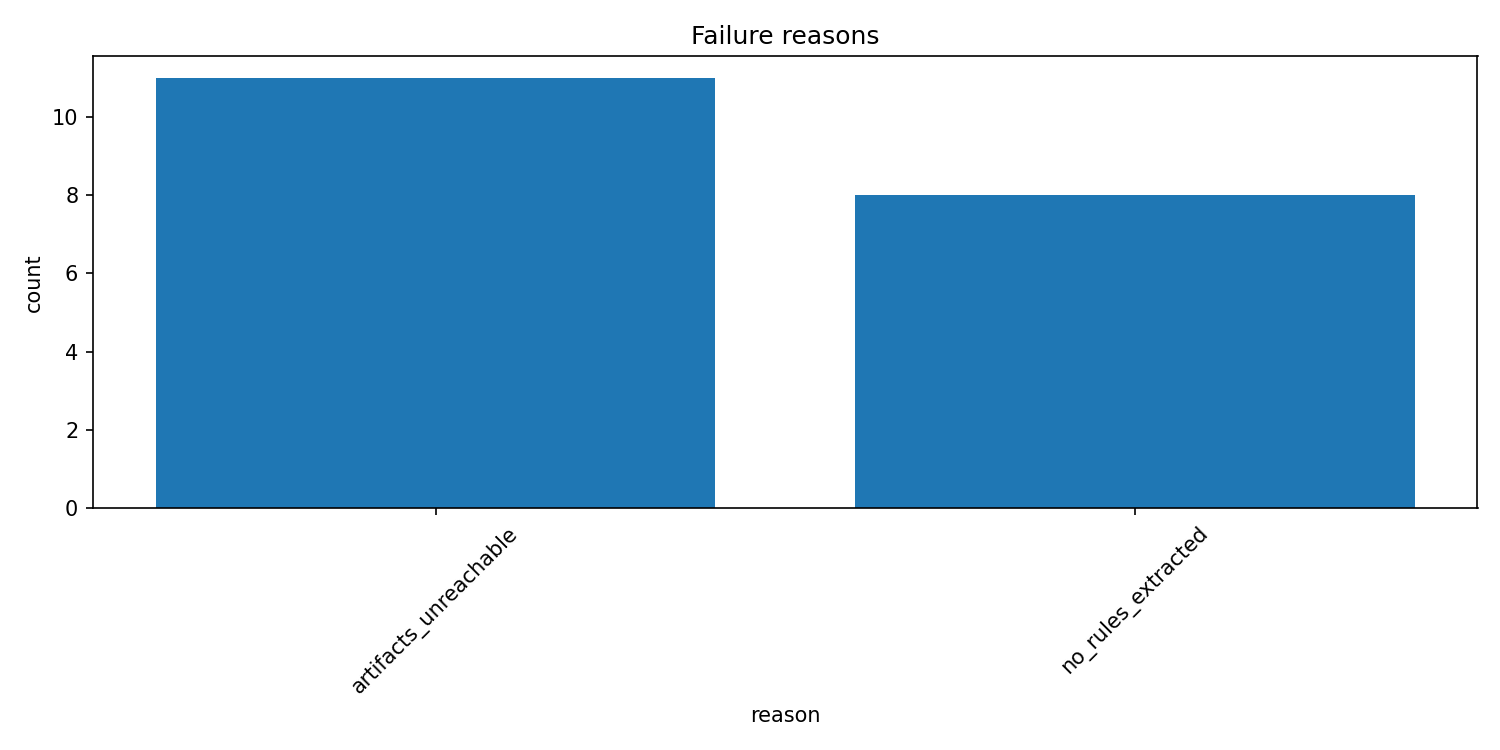
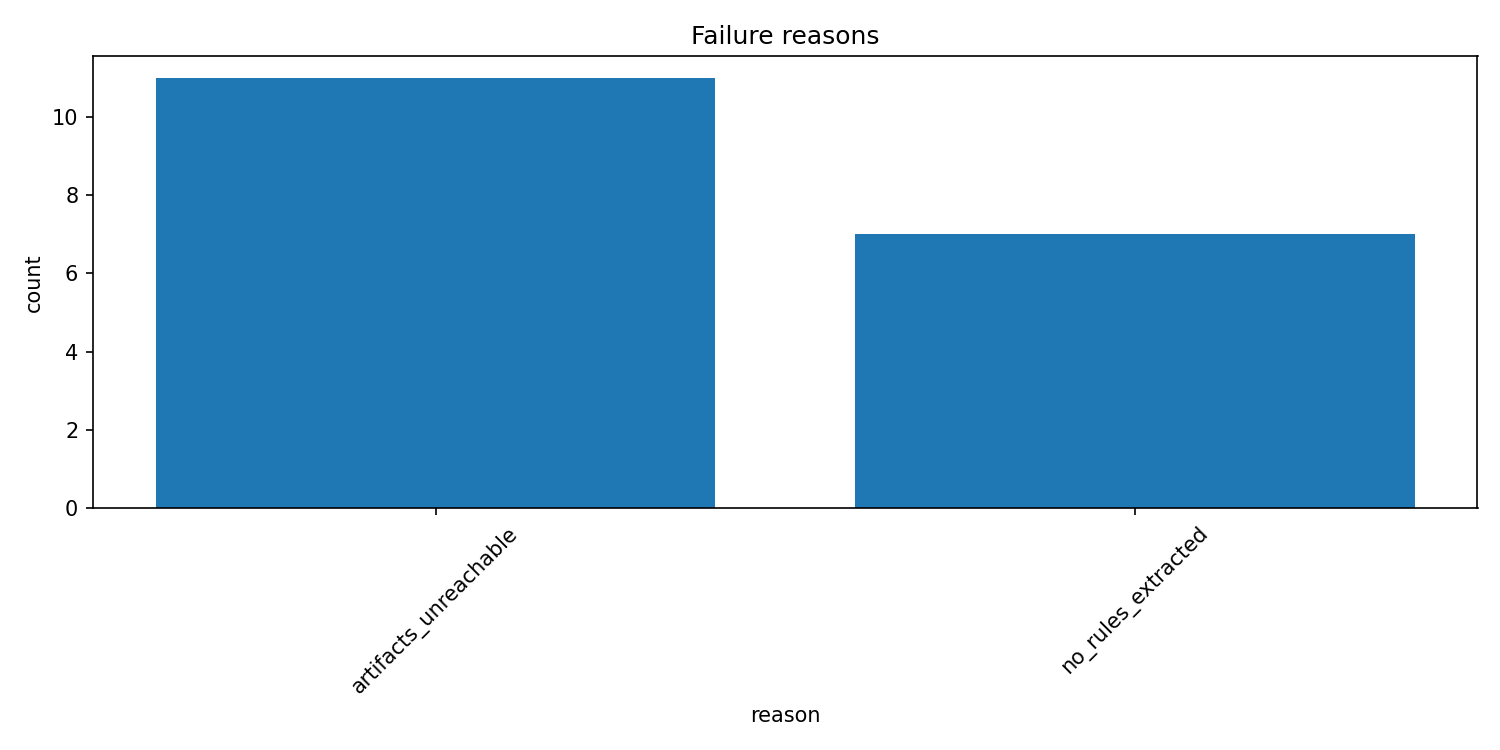
chore(exports): freeze updated RDAMSC SSSOM and analytics snapshot
Commit refreshed c36 and c38 SSSOM outputs plus a new pipeline freeze snapshot so exported artifacts stay reproducible with status, plots, and provenance metadata tied to this branch state.

Changed region(s): [[0.552, 0.2453, 0.9507, 0.3373]]

diff --git a/exports/sssom/GENERATED_FROM_PIPELINE.md b/exports/sssom/GENERATED_FROM_PIPELINE.md
@@ -2,17 +2,17 @@
 
 These SSSOM files were generated from the RDAMSC pipeline and frozen for commit.
 
-- Generated at (UTC): `2026-03-03T13:59:34.016594+00:00`
-- Commit: `f920e70` (main)
+- Generated at (UTC): `2026-03-05T08:51:33.279529+00:00`
+- Commit: `632cb09` (feat/deterministic-generic-issue-6)
 - Dirty working tree at freeze time: `True`
 - Pipeline status source: `/home/casas/AI/kaigraph/.local/rdamsc_pipeline_status.json`
 - Frozen analytics snapshot: `/home/casas/AI/kaigraph/exports/pipeline/latest`
-- SSSOM files included: `17`
+- SSSOM files included: `18`
 
 ## Summary
 - Total crosswalks: `37`
-- Status counts: `{'ready': 18, 'failed_unreachable': 11, 'failed_parse': 8}`
-- Failure reasons: `{'artifacts_unreachable': 11, 'no_rules_extracted': 8}`
+- Status counts: `{'ready': 19, 'failed_unreachable': 11, 'failed_parse': 7}`
+- Failure reasons: `{'artifacts_unreachable': 11, 'no_rules_extracted': 7}`
 
 ## Reproducibility
 - See `generation_manifest.json` in this directory for checksums and metadata.
